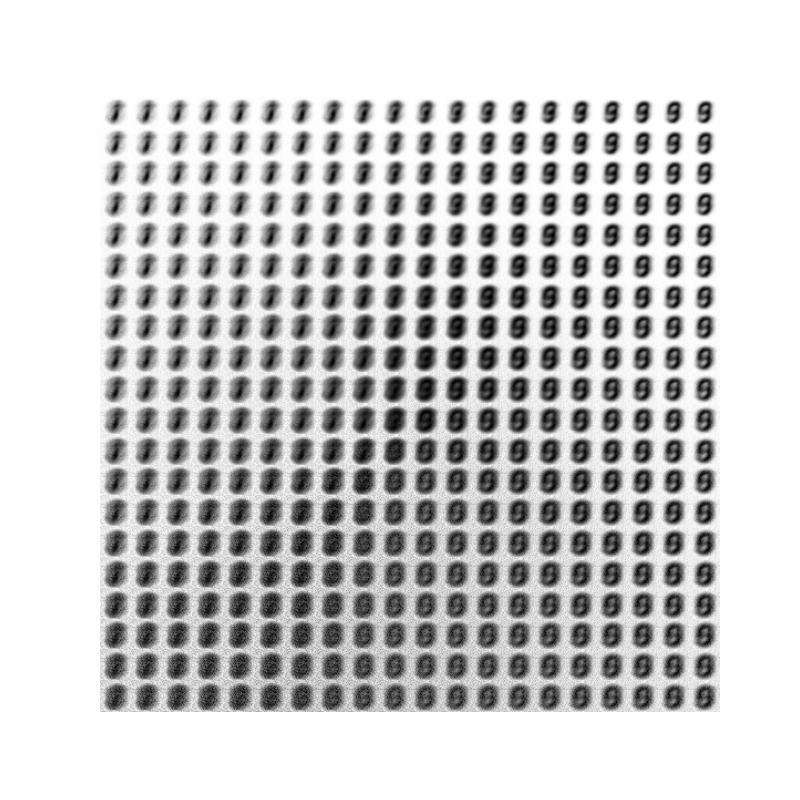
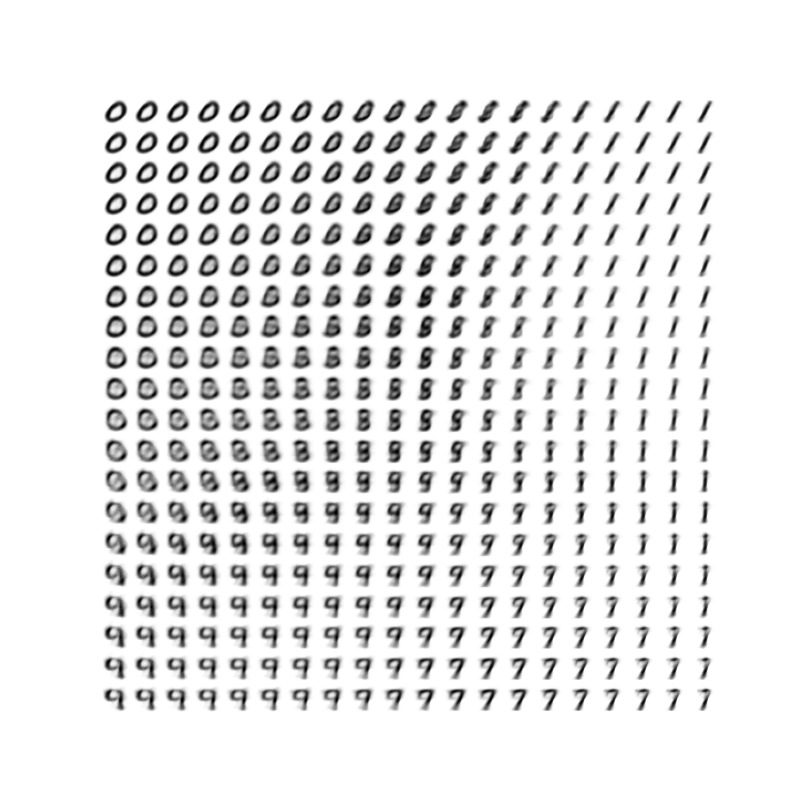
commit

diff --git a/model/variational_autoenc.py b/model/variational_autoenc.py
@@ -1,0 +1,111 @@
+# Some of codes referred to tensorflow 2.0 official tutorial for VAE
+import tensorflow as tf
+from tensorflow.keras.layers import InputLayer, Conv2D, Flatten, Dense, Conv2DTranspose, Reshape
+
+
+class VAE(tf.keras.Model):
+    def __init__(self, latent_dim: int, net_type: str='simple'):
+        super(VAE, self).__init__()
+        self.latent_dim = latent_dim
+        assert net_type in ['simple', 'conv']
+        if net_type == "simple":
+            self.inference_net = tf.keras.Sequential([
+                InputLayer(input_shape=[28, 28, 1]),
+                Flatten(),
+                Dense(128, activation='relu'),
+                Dense(64, activation='relu'),
+                Dense(self.latent_dim * 2),    # [means, stds]
+            ])
+            self.generative_net = tf.keras.Sequential([
+                InputLayer(input_shape=[self.latent_dim]),
+                Dense(64, activation='relu'),
+                Dense(128, activation='relu'),
+                Dense(28 * 28 * 1),
+                Reshape(target_shape=[28, 28, 1]),
+            ])
+        if net_type == "conv":
+            self.inference_net = tf.keras.Sequential([
+                InputLayer(input_shape=[28, 28, 1]),
+                Conv2D(filters=32, kernel_size=3, strides=(2, 2), activation='relu'),
+                Conv2D(filters=64, kernel_size=3, strides=(2, 2), activation='relu'),
+                Flatten(),
+                Dense(256, activation='relu'),
+                # No activation
+                Dense(self.latent_dim * 2),  # [means, stds]
+            ])
+            self.generative_net = tf.keras.Sequential([
+                InputLayer(input_shape=[self.latent_dim]),
+                Dense(256, activation='relu'),
+                Dense(7 * 7 * 32, activation='relu'),
+                Reshape(target_shape=(7, 7, 32)),
+                Conv2DTranspose(
+                    filters=64,
+                    kernel_size=3,
+                    strides=(2, 2),
+                    padding="SAME",
+                    activation='relu'),
+                Conv2DTranspose(
+                    filters=32,
+                    kernel_size=3,
+                    strides=(2, 2),
+                    padding="SAME",
+                    activation='relu'),
+                # No activation
+                Conv2DTranspose(
+                    filters=1, kernel_size=3, strides=(1, 1), padding="SAME"),
+            ])
+
+    def encode(self, x):
+        mean_logvar = self.inference_net(x)
+        N = mean_logvar.shape[0]
+        mean = tf.slice(mean_logvar, [0, 0], [N, self.latent_dim])
+        logvar = tf.slice(mean_logvar, [0, self.latent_dim], [N, self.latent_dim])
+        return mean, logvar
+
+    def decode(self, z, apply_sigmoid=False):
+        logits = self.generative_net(z)
+        if apply_sigmoid:
+            probs = tf.sigmoid(logits)
+            return probs
+        return logits
+
+
+class CVAE(tf.keras.Model):
+    def __init__(self, latent_dim: int, net_type: str='simple'):
+        super(CVAE, self).__init__()
+        
+        self.latent_dim = latent_dim
+        self.num_classes = 10
+        assert net_type in ['simple', 'conv']
+
+        if net_type == "simple":
+            self.inference_net = tf.keras.Sequential([
+                InputLayer(input_shape=[28 * 28 * 1 + self.num_classes]),
+                Flatten(),
+                Dense(256, activation='relu'),
+                Dense(128, activation='relu'),
+                Dense(self.latent_dim * 2),    # [means, stds]
+            ])
+            self.generative_net = tf.keras.Sequential([
+                InputLayer(input_shape=[self.latent_dim + self.num_classes]),
+                Dense(128, activation='relu'),
+                Dense(256, activation='relu'),
+                Dense(28 * 28 * 1),
+                Reshape(target_shape=[28, 28, 1]),
+            ])
+
+    def encode(self, x, y):
+        conditional_x = tf.concat([Flatten()(x), tf.one_hot(y, self.num_classes)], 1)
+        mean_logvar = self.inference_net(conditional_x)
+        N = mean_logvar.shape[0]
+        mean = tf.slice(mean_logvar, [0, 0], [N, self.latent_dim])
+        logvar = tf.slice(mean_logvar, [0, self.latent_dim], [N, self.latent_dim])
+        return mean, logvar
+
+    def decode(self, z, y, apply_sigmoid=False):
+        conditional_z = tf.concat([Flatten()(z), tf.one_hot(y, self.num_classes)], 1)
+        logits = self.generative_net(conditional_z)
+        if apply_sigmoid:
+            probs = tf.sigmoid(logits)
+            return probs
+        return logits

diff --git a/main.py b/main.py
@@ -3,12 +3,11 @@
 
 import tensorflow as tf
 from utils import data, plot
-from model.autoencoder import AE, VAE, CVAE
-#from train_utils.autoencoder import AETrain, VAETrain, CVAETrain
+from model.auto_encoder import AE
+from model.variational_autoenc import VAE, CVAE
 from loss import compute_loss
 import time
 import argparse
-
 
 def parse_args():
     desc = "Tensorflow 2.0 implementation of 'AutoEncoder Families (AE, VAE, CVAE(Conditional VAE))'"
@@ -26,7 +25,7 @@ def parse_args():
     return parser.parse_args()
 
 
-def train(ae_type, net_type,latent_dim=2, epochs=100, lr=1e-4, batch_size=1000):
+def train(ae_type, net_type, latent_dim=2, epochs=100, lr=1e-4, batch_size=1000):
 
     if ae_type == "AE":
         model = AE(latent_dim, net_type=net_type)
@@ -43,32 +42,22 @@ def train(ae_type, net_type,latent_dim=2, epochs=100, lr=1e-4, batch_size=1000):
     optimizer = tf.keras.optimizers.Adam(lr)
 
     for epoch in range(1, epochs + 1):
-        t = time.time()
         last_loss = 0
-        for train_x, _ in train_dataset:
-            gradients, loss = compute_gradients(model, train_x, ae_type)
+
+        for train_x, train_y in train_dataset:
+            gradients, loss = compute_gradients(model, train_x, train_y, ae_type)
             apply_gradients(optimizer, gradients, model.trainable_variables)
             last_loss = loss
-        if epoch % 10 == 0:
-            print('Epoch {}, Loss: {}, Remaining Time at This Epoch: {:.2f}'.format(
-                epoch, last_loss, time.time() - t
-            ))
 
-    if ae_type == "AE":
-        plot.plot_AE(model, test_dataset)
-    elif ae_type == "VAE":
-        plot.plot_VAE(model, test_dataset)
-    elif ae_type == "CVAE":
-        plot.plot_CVAE(model, test_dataset)
-    else:
-        raise ValueError
+        if epoch % 10 == 0:
+            print('Epoch {}, Loss: {}'.format(epoch, last_loss))
 
     return model
 
 
-def compute_gradients(model, x, ae_type):
+def compute_gradients(model, x, y, ae_type):
     with tf.GradientTape() as tape:
-        loss = compute_loss(model, x, ae_type)
+        loss = compute_loss(model, x, y, ae_type)
     return tape.gradient(loss, model.trainable_variables), loss
 
 def apply_gradients(optimizer, gradients, variables):
@@ -76,12 +65,8 @@ def apply_gradients(optimizer, gradients, variables):
 
 def main(args):
 
-    train(latent_dim=args.latent_dim,
-            epochs=args.num_epochs,
-            lr=args.learn_rate,
-            batch_size=args.batch_size,
-            ae_type = args.ae_type,
-            net_type = "simple",)
+    train(latent_dim=args.latent_dim, epochs=args.num_epochs, lr=args.learn_rate,
+            batch_size=args.batch_size, ae_type = args.ae_type, net_type = "conv",)
 
 if __name__ == "__main__":
     args = parse_args()

diff --git a/loss.py b/loss.py
@@ -1,25 +1,40 @@
 import tensorflow as tf
-from utils import reparameterize
 
-def compute_loss(model, x, ae_type):
+def compute_loss(model, x, y, ae_type):
+
     if ae_type == "AE":
-        return binaryCrossEntropy(model, x)
+        return binaryCrossEntropy(model, x, y)
     elif ae_type == "VAE" or ae_type == "CVAE":
-        return VAELoss(model, x)
+        return VAELoss(model, x, y, ae_type)
     else:
         raise ValueError
 
-def binaryCrossEntropy(model, x):
+def binaryCrossEntropy(model, x, y):
     loss_object = tf.keras.losses.BinaryCrossentropy()
     z = model.encode(x)
     x_logits = model.decode(z)
     loss = loss_object(x, x_logits)
     return loss
 
-def VAELoss(model, x):
-    mean, logvar = model.encode(x)
-    z = reparameterize.trick(mean, logvar)
-    x_logits = model.decode(z)
+def VAELoss(model, x, y, ae_type):
+
+    if ae_type == "VAE":
+        mean, logvar = model.encode(x)
+    elif ae_type == "CVAE":
+        mean, logvar = model.encode(x, y)
+    else:
+        raise ValueError
+
+    z = trick(mean, logvar)
+
+    if ae_type == "VAE":
+        x_logits  = model.decode(z)
+    elif ae_type == "CVAE":
+        x_logits  = model.decode(z, y)
+    else:
+        raise ValueError
+
+    #x_logits = model.decode(z)
 
     # cross_ent = - marginal likelihood
     cross_ent = tf.nn.sigmoid_cross_entropy_with_logits(logits=x_logits, labels=x)
@@ -32,3 +47,8 @@ def VAELoss(model, x):
     ELBO = marginal_likelihood - KL_divergence
     loss = -ELBO
     return loss
+
+# Reparametrization trick
+def trick(mean, logvar):
+    eps = tf.random.normal(shape=mean.shape)
+    return eps * tf.exp(logvar * .5) + mean
